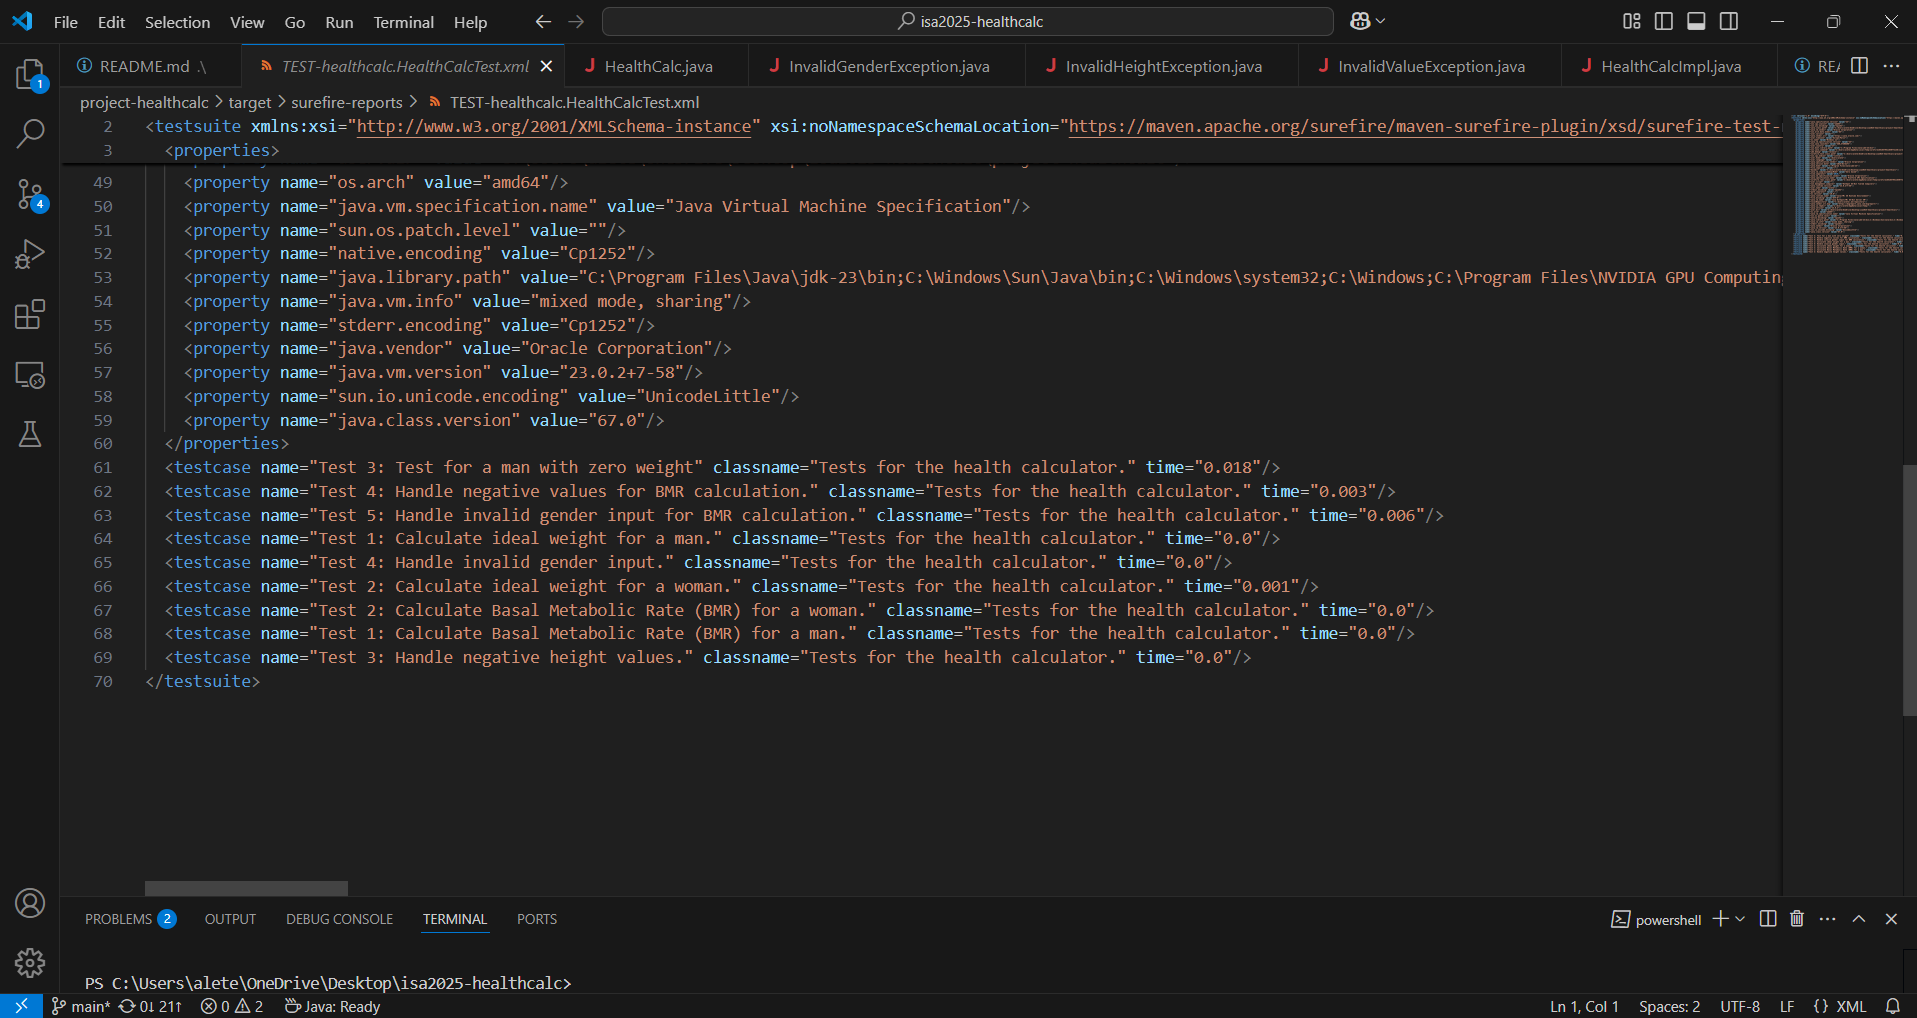
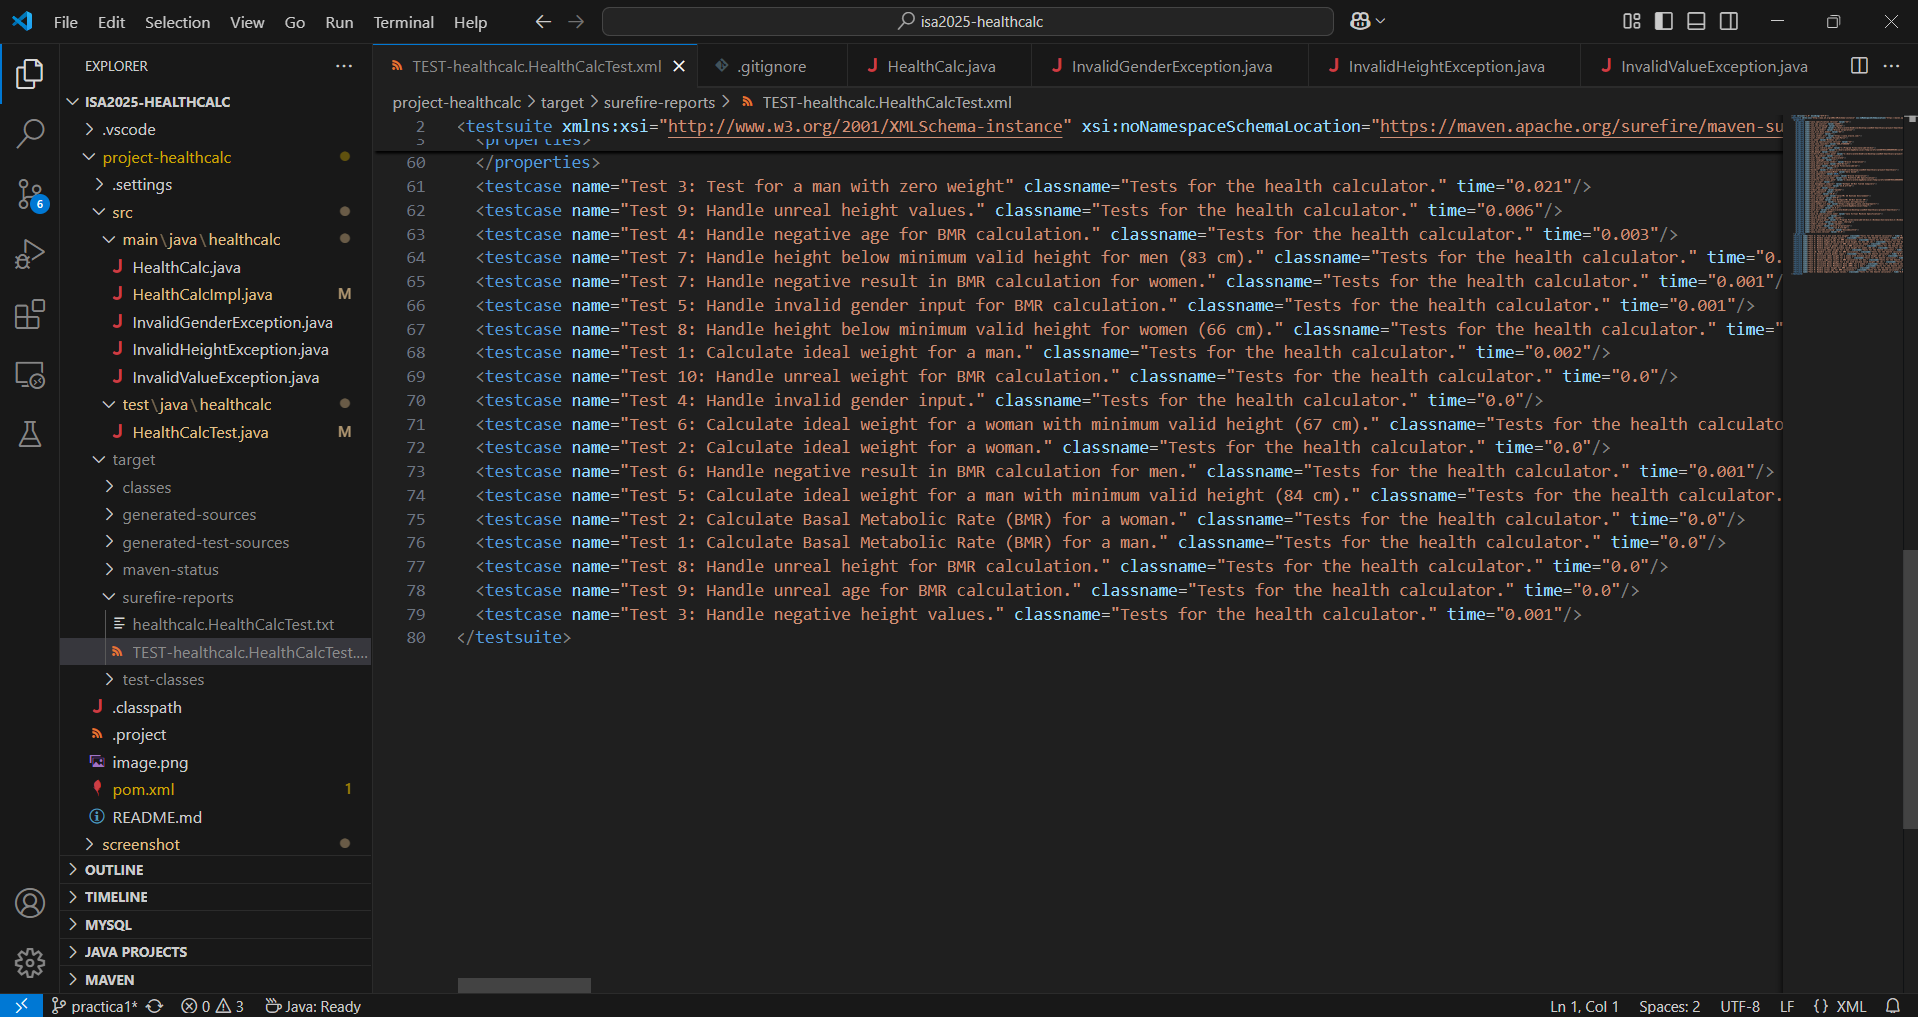
Commit to fix an error in unreal values for tests

diff --git a/project-healthcalc/src/test/java/healthcalc/HealthCalcTest.java b/project-healthcalc/src/test/java/healthcalc/HealthCalcTest.java
@@ -126,6 +126,20 @@ public class HealthCalcTest {
         }, "Height must be >= 67 cm for women. Provided height: 66");
     }
 
+    @Test
+    @DisplayName("Test 9: Handle unreal height values.")
+    public void testIdealWeightUnrealHeight() {
+        
+        HealthCalc calc = new HealthCalcImpl();
+        int unrealHeight = 250;  
+        char gender = 'm';  
+
+        // Act & Assert
+        assertThrows(InvalidHeightException.class, () -> {
+            calc.idealWeight(unrealHeight, gender);
+        });
+    }
+
 
     @Test
     @DisplayName("Test 1: Calculate Basal Metabolic Rate (BMR) for a man.")
@@ -240,5 +254,51 @@ public class HealthCalcTest {
             calc.basalMetabolicRate(weight, height, age, gender);
         });
     }
+
+    @Test
+    @DisplayName("Test 8: Handle unreal height for BMR calculation.")
+    public void testBmrUnrealHeightAge() {
+        HealthCalc calc = new HealthCalcImpl();
+        float weight = 70;
+        int unrealHeight = 260;
+        int age = 30;
+        char gender = 'm';
+
+        // Act & Assert
+        assertThrows(InvalidValueException.class, () -> {
+            calc.basalMetabolicRate(weight, unrealHeight, age, gender);
+        });
+    }
+
+    @Test
+    @DisplayName("Test 9: Handle unreal age for BMR calculation.")
+    public void testBmrUnrealAge() {
+        HealthCalc calc = new HealthCalcImpl();
+        float weight = 70;
+        int height = 160;
+        int unrealAge = 150;
+        char gender = 'm';
+
+        // Act & Assert
+        assertThrows(InvalidValueException.class, () -> {
+            calc.basalMetabolicRate(weight, height, unrealAge, gender);
+        });
+    }
+
+    @Test
+    @DisplayName("Test 10: Handle unreal weight for BMR calculation.")
+    public void testBmrUnrealWeight() {
+        HealthCalc calc = new HealthCalcImpl();
+        float unrealWeight = 370;
+        int height = 160;
+        int age = 30;
+        char gender = 'w';
+
+        // Act & Assert
+        assertThrows(InvalidValueException.class, () -> {
+            calc.basalMetabolicRate(unrealWeight, height, age, gender);
+        });
+    }
+    
 }
 

diff --git a/project-healthcalc/src/main/java/healthcalc/HealthCalcImpl.java b/project-healthcalc/src/main/java/healthcalc/HealthCalcImpl.java
@@ -5,7 +5,7 @@ public class HealthCalcImpl implements HealthCalc {
     @Override
 public float idealWeight(int height, char gender) throws InvalidHeightException, InvalidGenderException {
     
-    if (height <= 0) {
+    if (height <= 0 || height > 230) {
         throw new InvalidHeightException("Invalid height: " + height);
     }
 
@@ -35,8 +35,8 @@ public float idealWeight(int height, char gender) throws InvalidHeightException,
 
     @Override
     public float basalMetabolicRate(float weight, int height, int age, char gender) throws InvalidValueException, InvalidGenderException {
-        if (weight <= 0 || height <= 0 || age <= 0) {
-            throw new InvalidValueException("Invalid values: weight, height, and age must be positive.");
+        if (weight <= 0 || height <= 0 || age <= 0 || weight> 300 || height > 230 || age > 120) {
+            throw new InvalidValueException("Invalid values: weight, height, and age must be positive and valid.");
         }
         if (gender != 'm' && gender != 'w') {
             throw new InvalidGenderException("Invalid gender: " + gender);

diff --git a/README.md b/README.md
@@ -59,6 +59,11 @@ This function calculates the ideal weight (IW) of a person using the Lorentz for
 - **Expected Output:** Throws `InvalidHeightException`
 - **Description:** Verifies that an exception is thrown if the height is below 67 for women.
 
+#### 9 Test for a unreal height value
+- **Input:** `height = 250`, `gender = 'w'`
+- **Expected Output:** Throws `InvalidHeightException`
+- **Description:** Verifies that an exception is thrown if the height is unreal, >230.
+
 ## Function `basalMetabolicRate (BMR)`
 
 ### Description
@@ -102,6 +107,21 @@ Here I can accept negative values, because the BMR can be negative.
 - **Input:** `weight = 1`, `height = 1`, `age = 107`, `gender = 'w'`
 - **Expected Output:** Throws `InvalidValueException`
 - **Description:** Verifies that an exception is thrown if the input values lead to a negative BMR for women.
+
+####  8 Test for an unreal height input in BMR calculation
+- **Input:** `weight = 70`, `height = 260`, `age = 30`, `gender = 'w'`
+- **Expected Output:** Throws `InvalidValueException`
+- **Description:** Verifies that an exception is thrown if the height input is >230.
+
+####  9 Test for an unreal age input in BMR calculation
+- **Input:** `weight = 70`, `height = 160`, `age = 150`, `gender = 'm'`
+- **Expected Output:** Throws `InvalidValueException`
+- **Description:** Verifies that an exception is thrown if the age in input is > 120.
+
+####  10 Test for an unreal weight input in BMR calculation
+- **Input:** `weight = 370`, `height = 160`, `age = 30`, `gender = 'w'`
+- **Expected Output:** Throws `InvalidValueException`
+- **Description:** Verifies that an exception is thrown if the weight in input is >300.
 
 ## How to Run the Tests  
 To execute the tests using Maven, run the following command in the terminal:  
